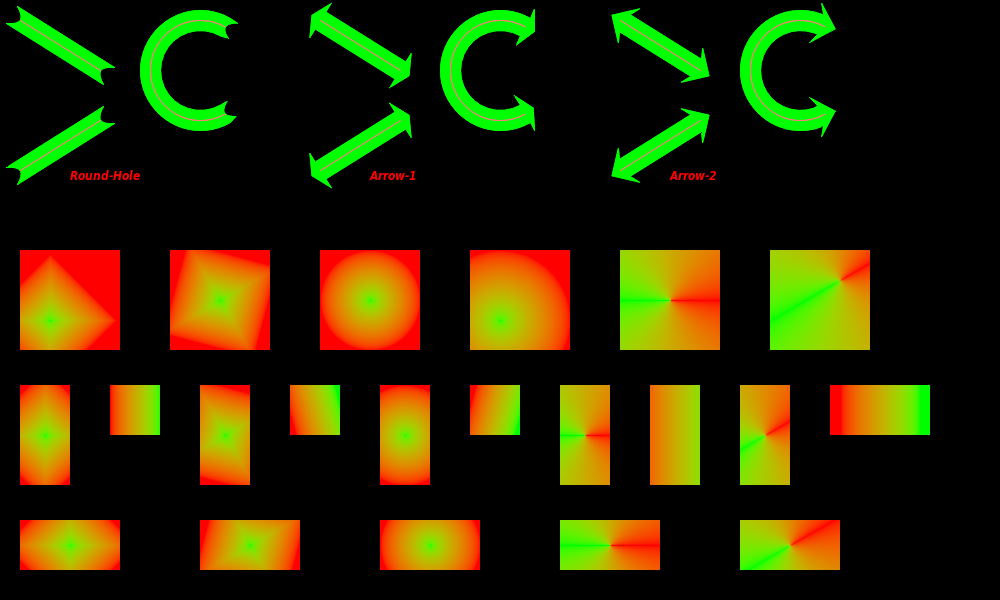
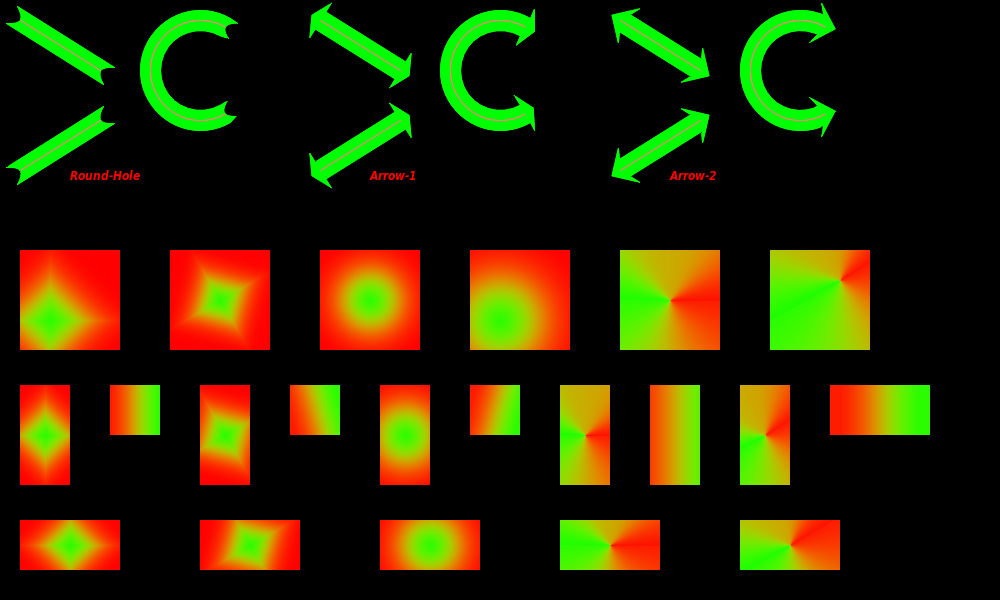
Experiment with gradients

diff --git a/src/Pt-Gfx/Rasterizer2.cpp b/src/Pt-Gfx/Rasterizer2.cpp
@@ -37,29 +37,39 @@ namespace Pt {
 namespace Gfx {
 
 
-// http://en.wikipedia.org/wiki/Lab_color_space
+// https://en.wikipedia.org/wiki/Lab_color_space
 #define D65_WHITEPOINT_X 0.950456
 #define D65_WHITEPOINT_Y 1.0
 #define D65_WHITEPOINT_Z 1.088754
 
 template <typename T>
+static inline T logisticSigmoid(T v)
+{
+    // https://en.wikipedia.org/wiki/Sigmoid_function
+    v *= 8.0;
+    v -= 4.0;
+
+    return 1.0 / ( 1.0 + exp(-v) );
+}
+
+template <typename T>
 static inline T srgbGammaCorrection(T v)
 {
-    // http://en.wikipedia.org/wiki/SRGB
+    // https://en.wikipedia.org/wiki/SRGB
     return (v <= 0.0031306684425005883) ? ( 12.92 * v ) : ( 1.055 * pow(v, 0.416666666666666667) - 0.055 );
 }
 
 template <typename T>
 static inline T srgbInverseGammaCorrection(T v)
 {
-    // http://en.wikipedia.org/wiki/SRGB
+    // https://en.wikipedia.org/wiki/SRGB
     return (v <= 0.0404482362771076) ? ( v / 12.92 ) : pow( (v + 0.055) / 1.055, 2.4 );
 }
 
 template <typename T>
 static inline T labFunc(T v)
 {
-    // http://en.wikipedia.org/wiki/Lab_color_space
+    // https://en.wikipedia.org/wiki/Lab_color_space
     return (v >= 8.85645167903563082e-3) ? pow( v, 0.333333333333333 ) : ( (841.0 / 108.0) * v + (4.0 / 29.0) );
 }
 
@@ -72,8 +82,8 @@ static inline T labInvFunc(T v)
 template <typename T>
 static inline void cnvRgbToXyz(T* x, T* y, T* z, T r, T g, T b)
 {
-    // http://en.wikipedia.org/wiki/SRGB
-    // http://en.wikipedia.org/wiki/CIE_1931_color_space
+    // https://en.wikipedia.org/wiki/SRGB
+    // https://en.wikipedia.org/wiki/CIE_1931_color_space
 
     r = srgbInverseGammaCorrection(r);
     g = srgbInverseGammaCorrection(g);
@@ -87,8 +97,8 @@ static inline void cnvRgbToXyz(T* x, T* y, T* z, T r, T g, T b)
 template <typename T>
 static inline void cnvXyzToRgb(T* r, T* g, T* b, T x, T y, T z)
 {
-    // http://en.wikipedia.org/wiki/SRGB
-    // http://en.wikipedia.org/wiki/CIE_1931_color_space
+    // https://en.wikipedia.org/wiki/SRGB
+    // https://en.wikipedia.org/wiki/CIE_1931_color_space
 
     T rs =  3.2406 * x - 1.5372 * y - 0.4986 * z;
     T gs = -0.9689 * x + 1.8758 * y + 0.0415 * z;
@@ -110,7 +120,7 @@ static inline void cnvXyzToRgb(T* r, T* g, T* b, T x, T y, T z)
 template <typename T>
 static inline void cnvXyzToLab(T* l, T* a, T* b, T x, T y, T z)
 {
-    // http://en.wikipedia.org/wiki/Lab_color_space
+    // https://en.wikipedia.org/wiki/Lab_color_space
 
     x = labFunc(x / D65_WHITEPOINT_X);
     y = labFunc(y / D65_WHITEPOINT_Y);
@@ -124,7 +134,7 @@ static inline void cnvXyzToLab(T* l, T* a, T* b, T x, T y, T z)
 template <typename T>
 static inline void cnvLabToXyz(T* x, T* y, T* z, T l, T a, T b)
 {
-    // http://en.wikipedia.org/wiki/Lab_color_space
+    // https://en.wikipedia.org/wiki/Lab_color_space
 
     l = (l + 16.0) / 116.0;
 
@@ -599,7 +609,7 @@ void Rasterizer2::updateGradientBrush_gen2DLinearGradient(Pt::int32_t width,
         for(Pt::int32_t x = 0; x < width; ++x) {
             // Calculate the distance and blending factor
             const float dist = d * (x - p0);
-            const float mf   = (dist <= 0.0f) ? 0.0f : ( (dist >= 1.0f) ? 1.0f : dist );
+            const float mf   = logisticSigmoid( (dist <= 0.0f) ? 0.0f : ( (dist >= 1.0f) ? 1.0f : dist ) );
             const float imf  = 1.0f - mf;
             // Interpolate the color
             const float li = ls * mf + le * imf;
@@ -729,7 +739,9 @@ void Rasterizer2::updateGradientBrush_gen2DRectangularGradient(Pt::int32_t width
     }
 
     // Calculate the inverse scaling factor
-    const float radius = std::max( width, height ) * 0.5f;
+    const float dw     = fabs(width  - centerX);
+    const float dh     = fabs(height - centerY);
+    const float radius = std::max( dw, dh );
     const float ilen   = 1.0f / radius;
 
     // Calculate the rotation
@@ -757,7 +769,8 @@ void Rasterizer2::updateGradientBrush_gen2DRectangularGradient(Pt::int32_t width
 
             // Calculate the distance and blending factor
             const float dist  = (rx + ry) * ilen;
-            const float sdist = powf(dist, 0.8f) * 0.8f;
+          //const float sdist = powf(dist, 0.8f);
+            const float sdist = logisticSigmoid(dist);
             const float mf    = (sdist >= 1.0f) ? 1.0f : sdist;
             const float imf   = 1.0f - mf;
 
@@ -833,7 +846,7 @@ void Rasterizer2::updateGradientBrush_gen2DRectangularGradient(Pt::int32_t width
 
             // Calculate the distance and blending factor
             const float dist  = (rx + ry) * ilen;
-            const float sdist = powf(dist, 0.8f) * 0.8f;
+            const float sdist = powf(dist, 0.8f);
             const float mf    = (sdist >= 1.0f) ? 1.0f : sdist;
             const float imf   = 1.0f - mf;
 
@@ -890,7 +903,7 @@ void Rasterizer2::updateGradientBrush_gen2DRadialGradient(Pt::int32_t width,
     const float dh     = fabs(height - centerY);
     const float radius = std::max( dw, dh );
     const float ilen   = 1.0f / radius;
-    const float scale  = radius / (std::max(width, height) * 0.5f);
+    const float repscl = radius / (std::max(width, height) * 0.5f);
 
     // Generate the gradient
     Pt::uint8_t* pixel = _brushBuffer.data();
@@ -908,10 +921,11 @@ void Rasterizer2::updateGradientBrush_gen2DRadialGradient(Pt::int32_t width,
             // Calculate the distance and blending factor
             const float dist  = sqrtf(dx * dx + dy * dy) * ilen;
 #if 1
-            const float sdist = powf(dist, 0.8f);
+          //const float sdist = powf(dist, 0.8f);
+            const float sdist = logisticSigmoid(dist);
 #else
             const float repcn = 3.0f;
-            const float sdist = fabs(sinf(repcn * scale * 1.414f * piHalf<float>() * dist));
+            const float sdist = fabs(sinf(repcn * repscl * 1.414f * piHalf<float>() * dist));
 #endif
             const float mf    = (sdist >= 1.0f) ? 1.0f : sdist;
             const float imf   = 1.0f - mf;
@@ -1129,7 +1143,7 @@ void Rasterizer2::updateGradientBrush_gen2DConicalGradient(Pt::int32_t width, Pt
             // Distance: 0.00f <= dist <= loLim --- blend from end color to middle color
             if(dist <= loLim) {
                 // Calculate the blending factor
-                const float mf   = dist / loLim;
+                const float mf   = logisticSigmoid( dist / loLim );
                 const float imf  = 1.0f - mf;
                 // Interpolate the color
                 const float li = le * mf + lm * imf;
@@ -1147,7 +1161,7 @@ void Rasterizer2::updateGradientBrush_gen2DConicalGradient(Pt::int32_t width, Pt
             // Distance: hiLim <= dist <= 1.00f --- blend from middle color to start color
             else if(dist >= hiLim) { //
                 // Calculate the blending factor
-                const float mf   = (dist - hiLim) / loLim;
+                const float mf   = logisticSigmoid( (dist - hiLim) / loLim );
                 const float imf  = 1.0f - mf;
                 // Interpolate the color
                 const float li = lm * mf + ls * imf;
@@ -1165,7 +1179,7 @@ void Rasterizer2::updateGradientBrush_gen2DConicalGradient(Pt::int32_t width, Pt
             // Distance: loLim < dist < hiLim --- blend from start color to end color
             else {
                 // Calculate the blending factor
-                const float mf   = (dist - loLim) / (hiLim - loLim);
+                const float mf   = logisticSigmoid( (dist - loLim) / (hiLim - loLim) );
                 const float imf  = 1.0f - mf;
                 // Interpolate the color
                 const float li = ls * mf + le * imf;
@@ -1199,7 +1213,7 @@ void Rasterizer2::updateGradientBrush_gen2DConicalGradient(Pt::int32_t width, Pt
                 dist /= (ijm * ijm);
             }
             // Calculate the blending factor
-            const float mf   = (dist <= 0.0f) ? 0.0f : ( (dist >= 1.0f) ? 1.0f : dist );
+            const float mf   = logisticSigmoid( (dist <= 0.0f) ? 0.0f : ( (dist >= 1.0f) ? 1.0f : dist ) );
             const float imf  = 1.0f - mf;
             // Interpolate the color
             const float li = ls * mf + le * imf;
